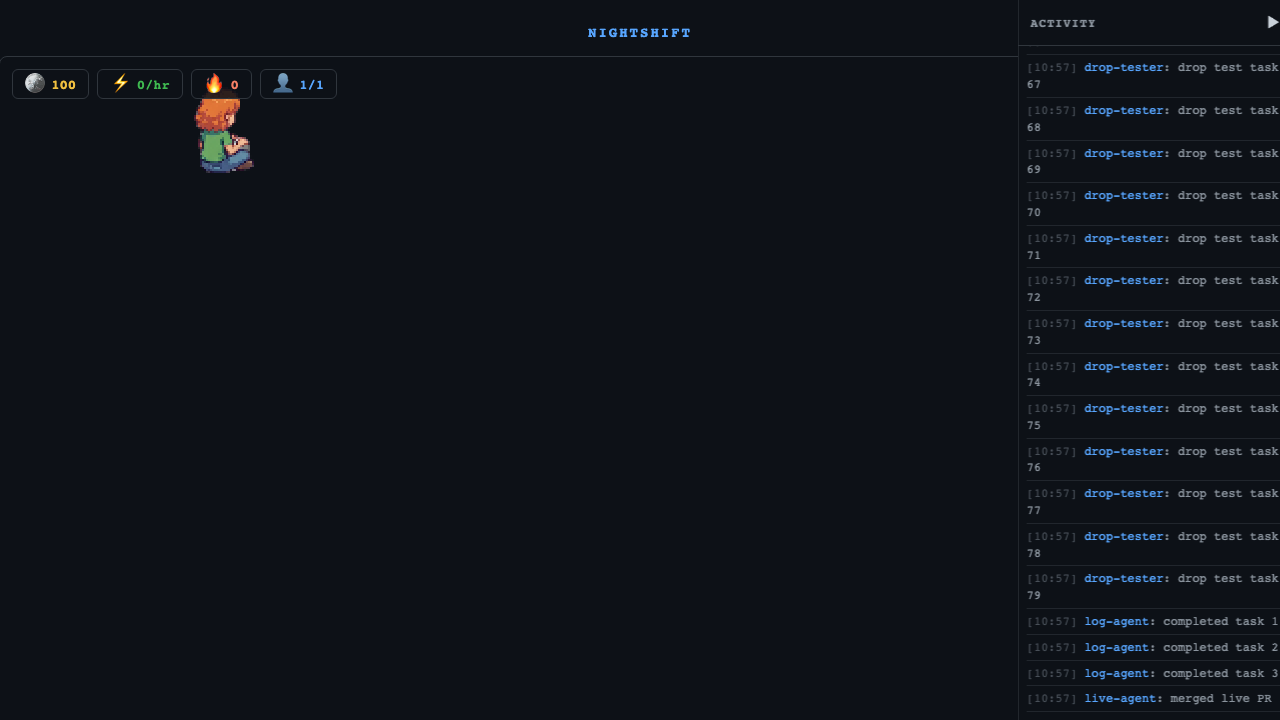
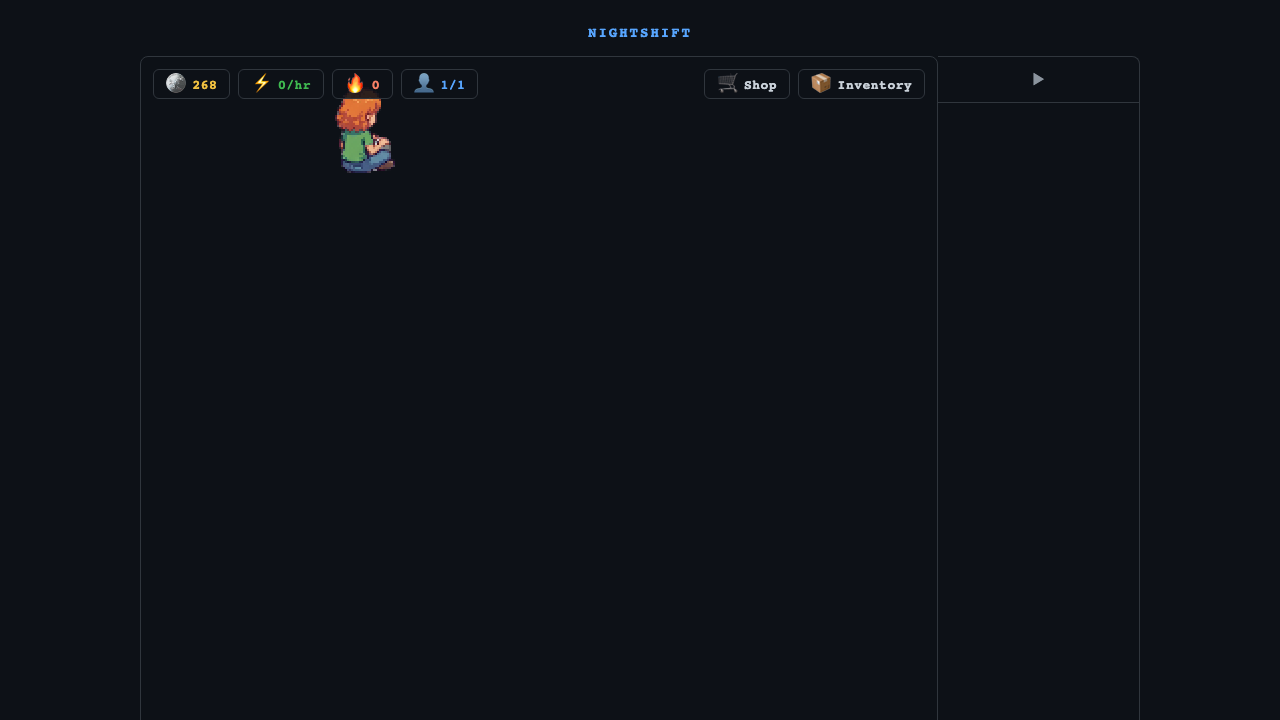
fix(issue-54): sidebar layout beside canvas, fix collapse toggle, add screenshots

diff --git a/lib/agentville/server/frontend.ts b/lib/agentville/server/frontend.ts
@@ -374,22 +374,38 @@ h1 {
   font-weight: 400;
 }
 
+/* --- Game + Sidebar Layout --- */
+#game-layout {
+  display: flex;
+  width: 100%;
+  max-width: calc(720px + 280px);
+  gap: 0;
+}
+#game-layout #canvas-container {
+  flex: 1;
+  min-width: 0;
+}
+
 /* --- Event Log Sidebar --- */
 #event-log-sidebar {
-  position: fixed;
-  right: 0;
-  top: 0;
-  height: 100vh;
   width: 280px;
+  flex-shrink: 0;
   background: #0d1117;
-  border-left: 1px solid #30363d;
+  border: 1px solid #30363d;
+  border-left: none;
+  border-radius: 0 8px 8px 0;
   display: flex;
   flex-direction: column;
-  z-index: 15;
-  transition: transform 0.2s ease;
+  transition: width 0.2s ease;
+  overflow: hidden;
+  align-self: stretch;
 }
 #event-log-sidebar.collapsed {
-  transform: translateX(calc(100% - 32px));
+  width: 32px;
+}
+#event-log-sidebar.collapsed #event-log-entries,
+#event-log-sidebar.collapsed #event-log-header span {
+  display: none;
 }
 #event-log-header {
   display: flex;
@@ -398,6 +414,10 @@ h1 {
   padding: 12px;
   border-bottom: 1px solid #30363d;
   flex-shrink: 0;
+}
+#event-log-sidebar.collapsed #event-log-header {
+  justify-content: center;
+  padding: 12px 4px;
 }
 #event-log-header span {
   font-size: 12px;
@@ -432,14 +452,15 @@ h1 {
 .log-entry-agent { color: #58a6ff; }
 .log-entry-error { color: #f85149; }
 .log-entry-drop { color: #f0c040; }
-body.event-log-open {
-  padding-right: 280px;
-}
 @media (max-width: 1024px) {
-  #event-log-sidebar { transform: translateX(calc(100% - 32px)); }
-  #event-log-sidebar.collapsed { transform: translateX(calc(100% - 32px)); }
-  #event-log-sidebar.expanded { transform: translateX(0); }
-  body.event-log-open { padding-right: 0; }
+  #game-layout { flex-direction: column; }
+  #event-log-sidebar {
+    width: 100%;
+    max-height: 200px;
+    border-left: 1px solid #30363d;
+    border-radius: 0 0 8px 8px;
+  }
+  #event-log-sidebar.collapsed { width: 100%; max-height: 32px; }
 }
 
 /* Placement mode */
@@ -499,6 +520,7 @@ body.event-log-open {
 <body>
 <h1>nightshift</h1>
 
+<div id="game-layout">
 <div id="canvas-container">
   <div id="hud">
     <div id="hud-left">
@@ -539,6 +561,15 @@ body.event-log-open {
     <div class="placement-hint">Click to place item &mdash; ESC to cancel</div>
   </div>
 </div>
+<!-- Event Log Sidebar (inside game-layout flex row) -->
+<div id="event-log-sidebar">
+  <div id="event-log-header">
+    <span>Activity</span>
+    <button id="event-log-toggle">&#x25C0;</button>
+  </div>
+  <div id="event-log-entries"></div>
+</div>
+</div><!-- /game-layout -->
 <div id="status-panel"></div>
 <div id="connection-status">Connecting...</div>
 
@@ -571,15 +602,6 @@ body.event-log-open {
 
 <!-- Toast container -->
 <div id="toast-container"></div>
-
-<!-- Event Log Sidebar -->
-<div id="event-log-sidebar">
-  <div id="event-log-header">
-    <span>Activity</span>
-    <button id="event-log-toggle">&#x25C0;</button>
-  </div>
-  <div id="event-log-entries"></div>
-</div>
 
 <script type="module">
 import { Agentville, PropSystem, createStandardSpriteConfig } from '/agentville-core.js';
@@ -843,20 +865,13 @@ function initSidebarState() {
   const collapsed = localStorage.getItem('event-log-collapsed') === '1';
   if (collapsed) {
     logSidebar.classList.add('collapsed');
-    logSidebar.classList.remove('expanded');
     logToggle.innerHTML = '&#x25B6;';
-  } else {
-    logSidebar.classList.add('expanded');
-    logSidebar.classList.remove('collapsed');
-    document.body.classList.add('event-log-open');
   }
 }
 
 logToggle.addEventListener('click', () => {
   const isCollapsed = logSidebar.classList.toggle('collapsed');
-  logSidebar.classList.toggle('expanded', !isCollapsed);
   logToggle.innerHTML = isCollapsed ? '&#x25B6;' : '&#x25C0;';
-  document.body.classList.toggle('event-log-open', !isCollapsed);
   localStorage.setItem('event-log-collapsed', isCollapsed ? '1' : '0');
 });
 

diff --git a/playwright.config.ts b/playwright.config.ts
@@ -7,6 +7,7 @@ export default defineConfig({
   use: {
     headless: true,
     viewport: { width: 1280, height: 720 },
+    screenshot: 'on',
   },
   projects: [
     {
